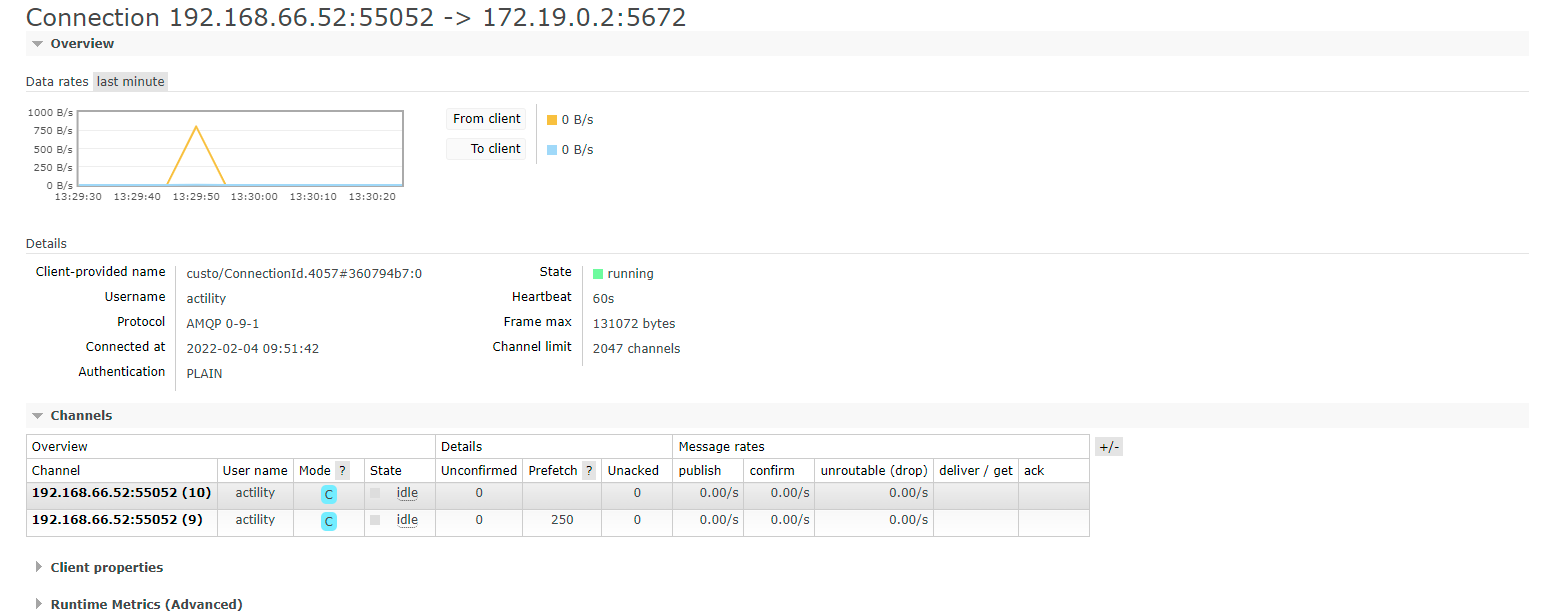
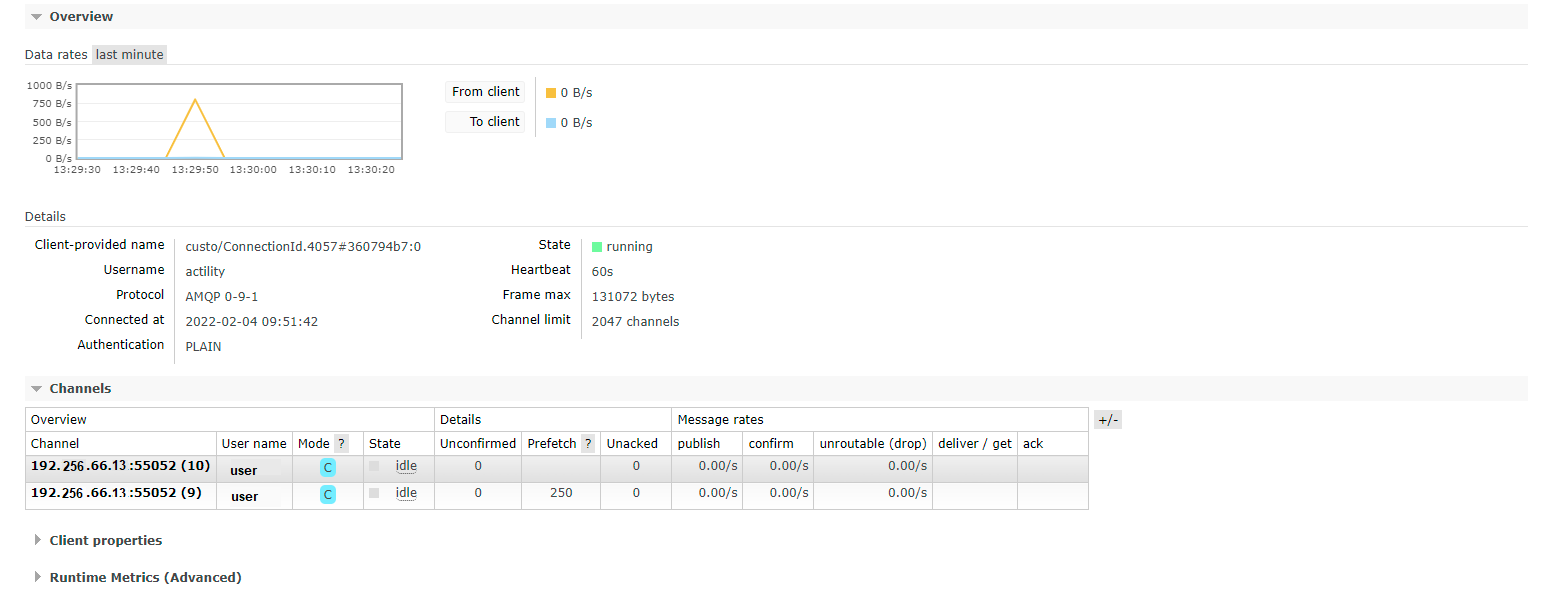
Delete credentials in AMQP

diff --git a/docs/Connector/AMQP/README.md b/docs/Connector/AMQP/README.md
@@ -28,12 +28,12 @@ POST /connections
     "connectorId": "actility-amqp-0.9.1-iot",
     "name": "Test AMQP (TCP) Connection",
     "configuration": {
-        "uplinkTopicPattern": "{profile}.amqp.things.{DevEUI}.uplink",
-        "downlinkTopicPattern": "{profile}.amqp.things.{DevEUI}.downlink",
-        "hostName": "broker.preview.thingpark.com:5672",
+        "uplinkTopicPattern": "amqp.things.{DevEUI}.uplink",
+        "downlinkTopicPattern": "amqp.things.{DevEUI}.downlink",
+        "hostName": "actility.com:1234",
         "protocol": "TCP",
-        "username": "actility",
-        "password": "actility",
+        "username": "username",
+        "password": "password",
         "exchangeName": "IotFlowExchange"
     }
 }
@@ -46,12 +46,12 @@ POST /connections
     "connectorId": "actility-amqp-0.9.1-iot",
     "name": "Test AMQP (SSL) Connection",
     "configuration": {
-        "uplinkTopicPattern": "{profile}.amqp.things.{DevEUI}.uplink",
-        "downlinkTopicPattern": "{profile}.amqp.things.{DevEUI}.downlink",
-        "hostName": "broker.preview.thingpark.com:5671",
+        "uplinkTopicPattern": "amqp.things.{DevEUI}.uplink",
+        "downlinkTopicPattern": "amqp.things.{DevEUI}.downlink",
+        "hostName": "actility.com:1234",
         "protocol": "SSL",
-        "username": "actility",
-        "password": "actility",
+        "username": "username",
+        "password": "password",
         "certificate": "--BEGIN CERTIFICATE--kCFGNqMDBA...QJvW3--END CERTIFICATE--",
         "privateKey": "--BEGIN RSA PRIVATE KEY--MIIEowIBAA...lOF5whZXzrHHACsWqAwermxHK7--END RSA PRIVATE KEY--",
         "exchangeName": "IotFlowExchange"

diff --git a/docs/Connector/AZUREIOTCENTRAL/README.md b/docs/Connector/AZUREIOTCENTRAL/README.md
@@ -143,12 +143,6 @@ POST /connections
[1 lines of base64/hex data omitted]
         "apiToken": "SharedAccessSignature sr=a5cd66a7-def2-4T50-b779-d5b8741fd53CecZg=K0AVOYwrpXCFotKGR7WJ9fgucfRt7uw2ugfh5j69vi8%3D&skn=tpxdev-2&se=1665666228859",
         "idScope":"0ne000CDDC9",
-        "certification": {
-            "deviceEUI": "20112F0264000014",
-            "deviceId": "fd660a87-fh43-4079-gr32-fdf0761441rc",
-            "idScope":"0ut000AA1b2",
-            "symmetricKey": "nJNfPaECpj6460ow8fhARvoe/AQ9g20cfwMsJ9w="
-        }
     }
 }
 ```
